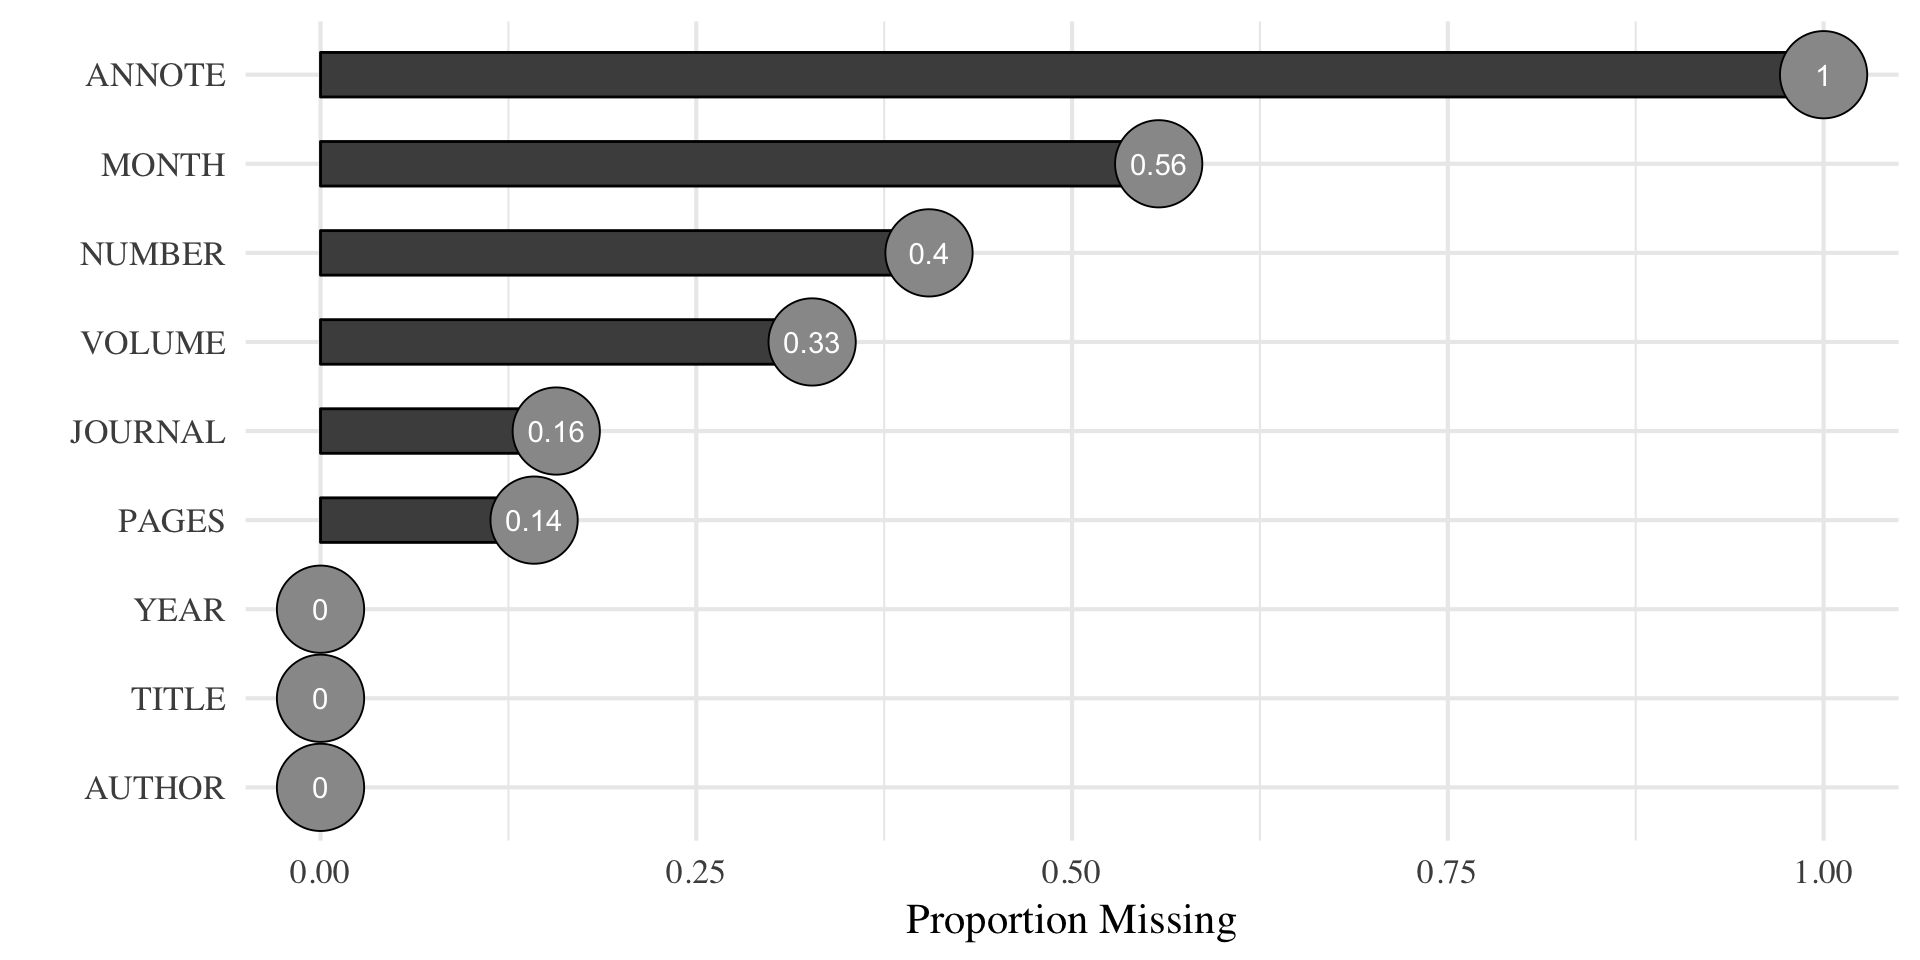
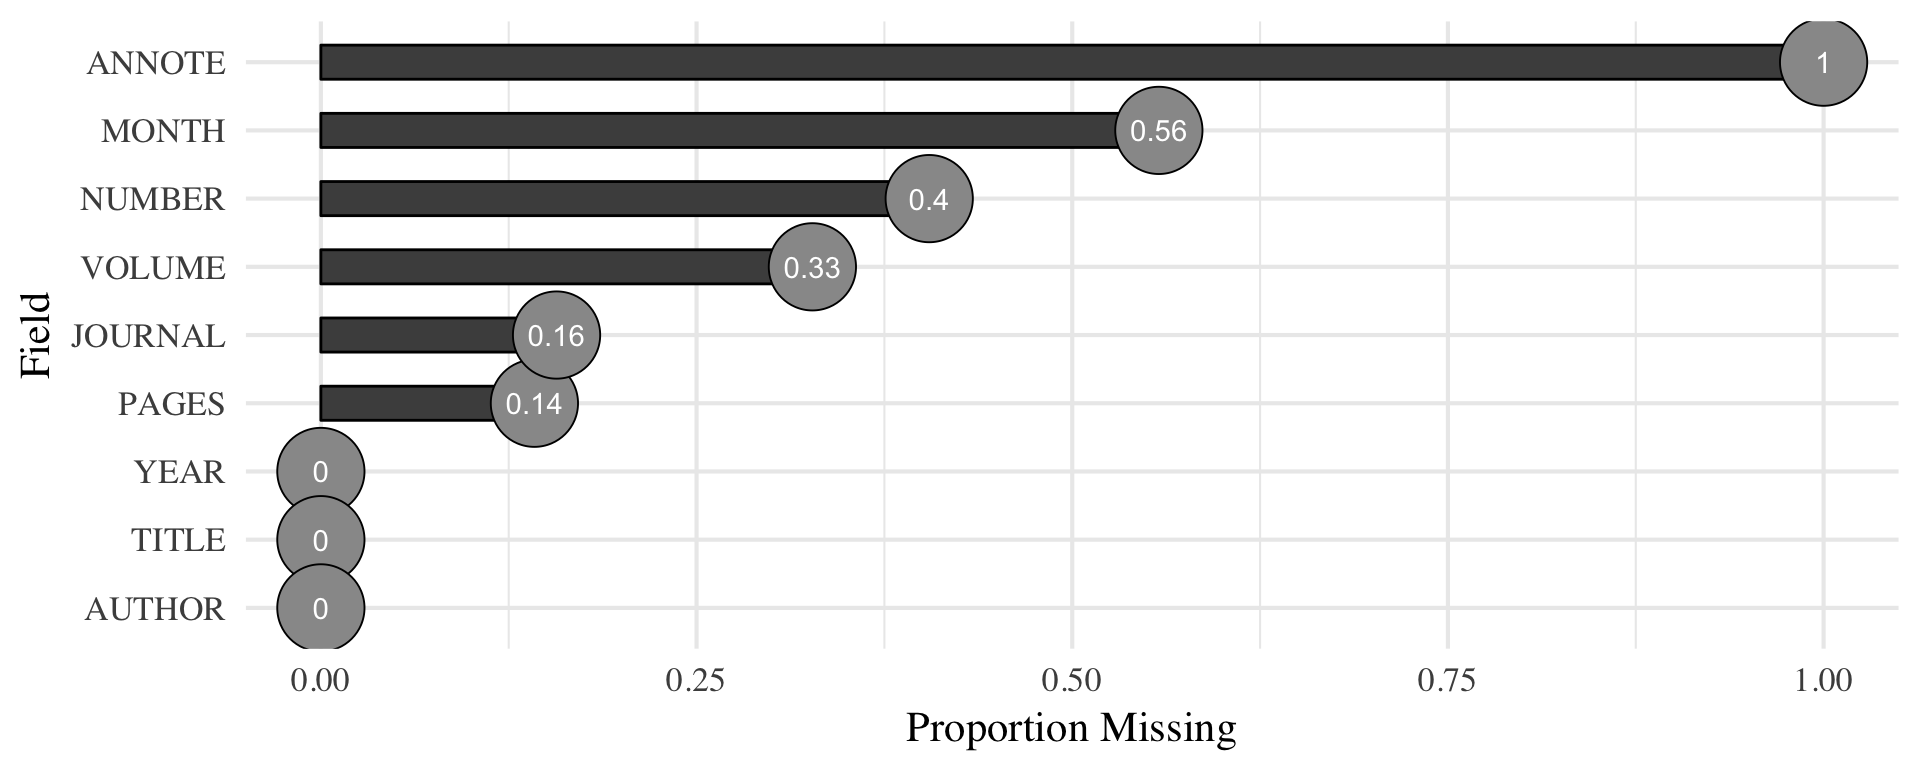
size adjustments again

diff --git a/README.md b/README.md
@@ -208,13 +208,12 @@ bib %>%
     geom_bar(stat = "identity", color = 'black', fill = 'grey30', width = 0.5) + 
     geom_point(pch = 21, fill = 'grey60', size = 15) + 
     geom_text(color = 'white') + 
-    ylab("Proportion Missing") + 
     ylim(c(0,1)) +
-    xlab("") + 
+    labs(y = "Proportion Missing", x = "Field") + 
     coord_flip()
 ```
 
-<img src="https://i.imgur.com/ALglqgb.png" width="960" />
+<img src="https://i.imgur.com/D1wIuhG.png" width="960" />
 
 ``` r
 unlink("cache", recursive = TRUE)
